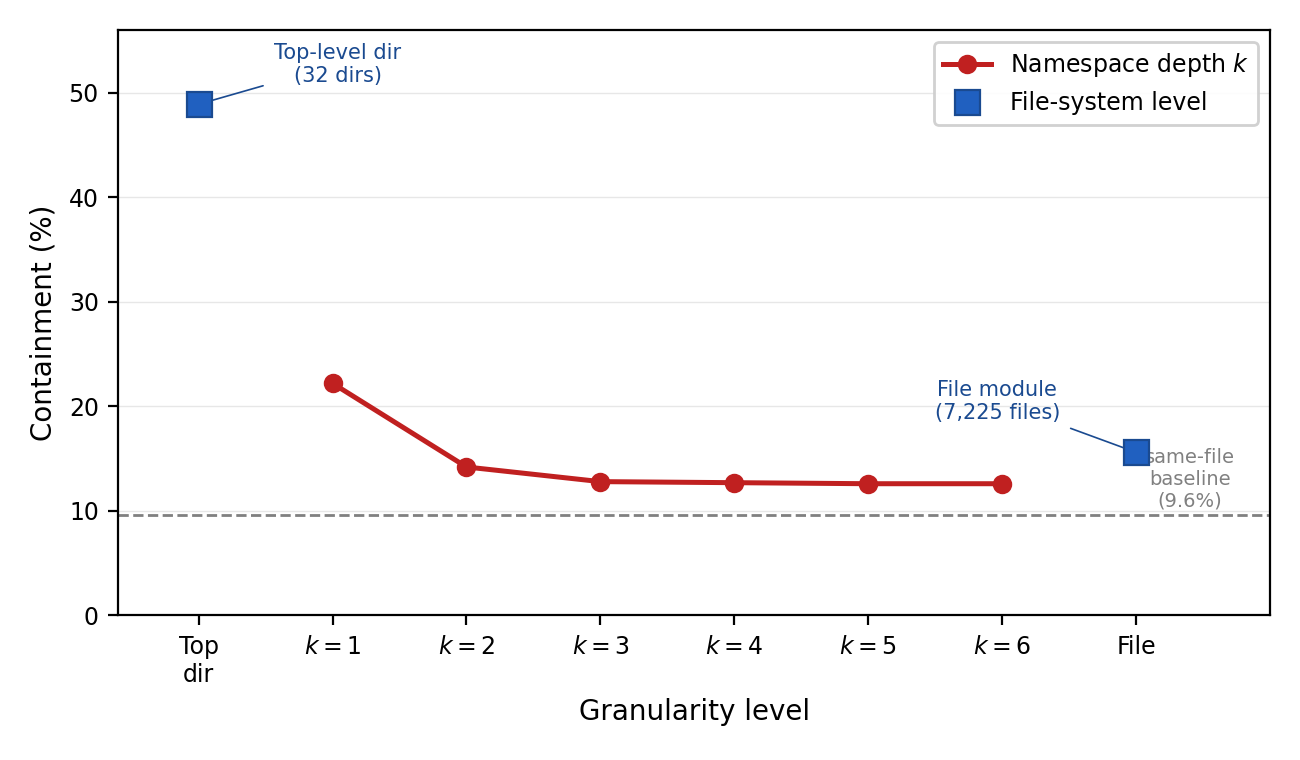
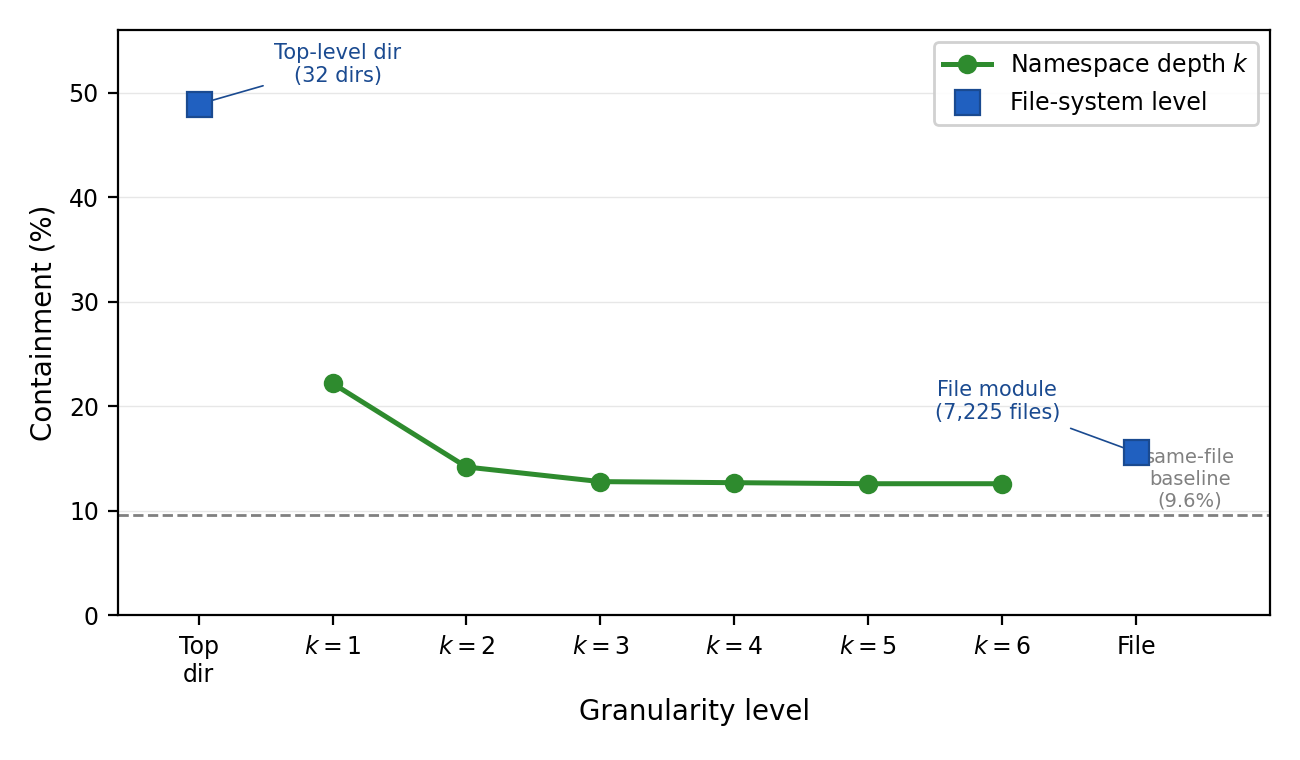
Change containment curve from red to green for namespace consistency
Namespace depth data points now use green (#2E8B2E) matching the
paper's three-color scheme (blue=modules, green=namespaces,
red=declarations). Updated caption accordingly.

Changed region(s): [[0.2462, 0.4842, 0.8, 0.6658], [0.7077, 0.0605, 0.7692, 0.0908]]

diff --git a/mathlib-graph-structure/sections/namespace-graph.tex b/mathlib-graph-structure/sections/namespace-graph.tex
@@ -181,7 +181,7 @@ Namespace depth $\ge 3$         & ${\sim}15$K   & $87.4\%$ & $12.6\%$ \\
 \begin{figure}[ht]
 \centering
 \includegraphics[width=0.82\textwidth]{analysis/containment_curve.pdf}
-\caption{Containment decay curve. Red circles connected by the solid line show containment at namespace depth $k = 1, \ldots, 6$; blue squares mark file-system levels (top-level directory and file module). The gray dashed line marks the same-file baseline from Table~\ref{tab:thm-edge-breakdown} ($9.6\%$). Containment drops steeply from the top-level directory to depth~$1$ and saturates by depth~$3$.}
+\caption{Containment decay curve. Green circles connected by the solid line show containment at namespace depth $k = 1, \ldots, 6$; blue squares mark file-system levels (top-level directory and file module). The gray dashed line marks the same-file baseline from Table~\ref{tab:thm-edge-breakdown} ($9.6\%$). Containment drops steeply from the top-level directory to depth~$1$ and saturates by depth~$3$.}
 \label{fig:containment-curve}
 \end{figure}
 
